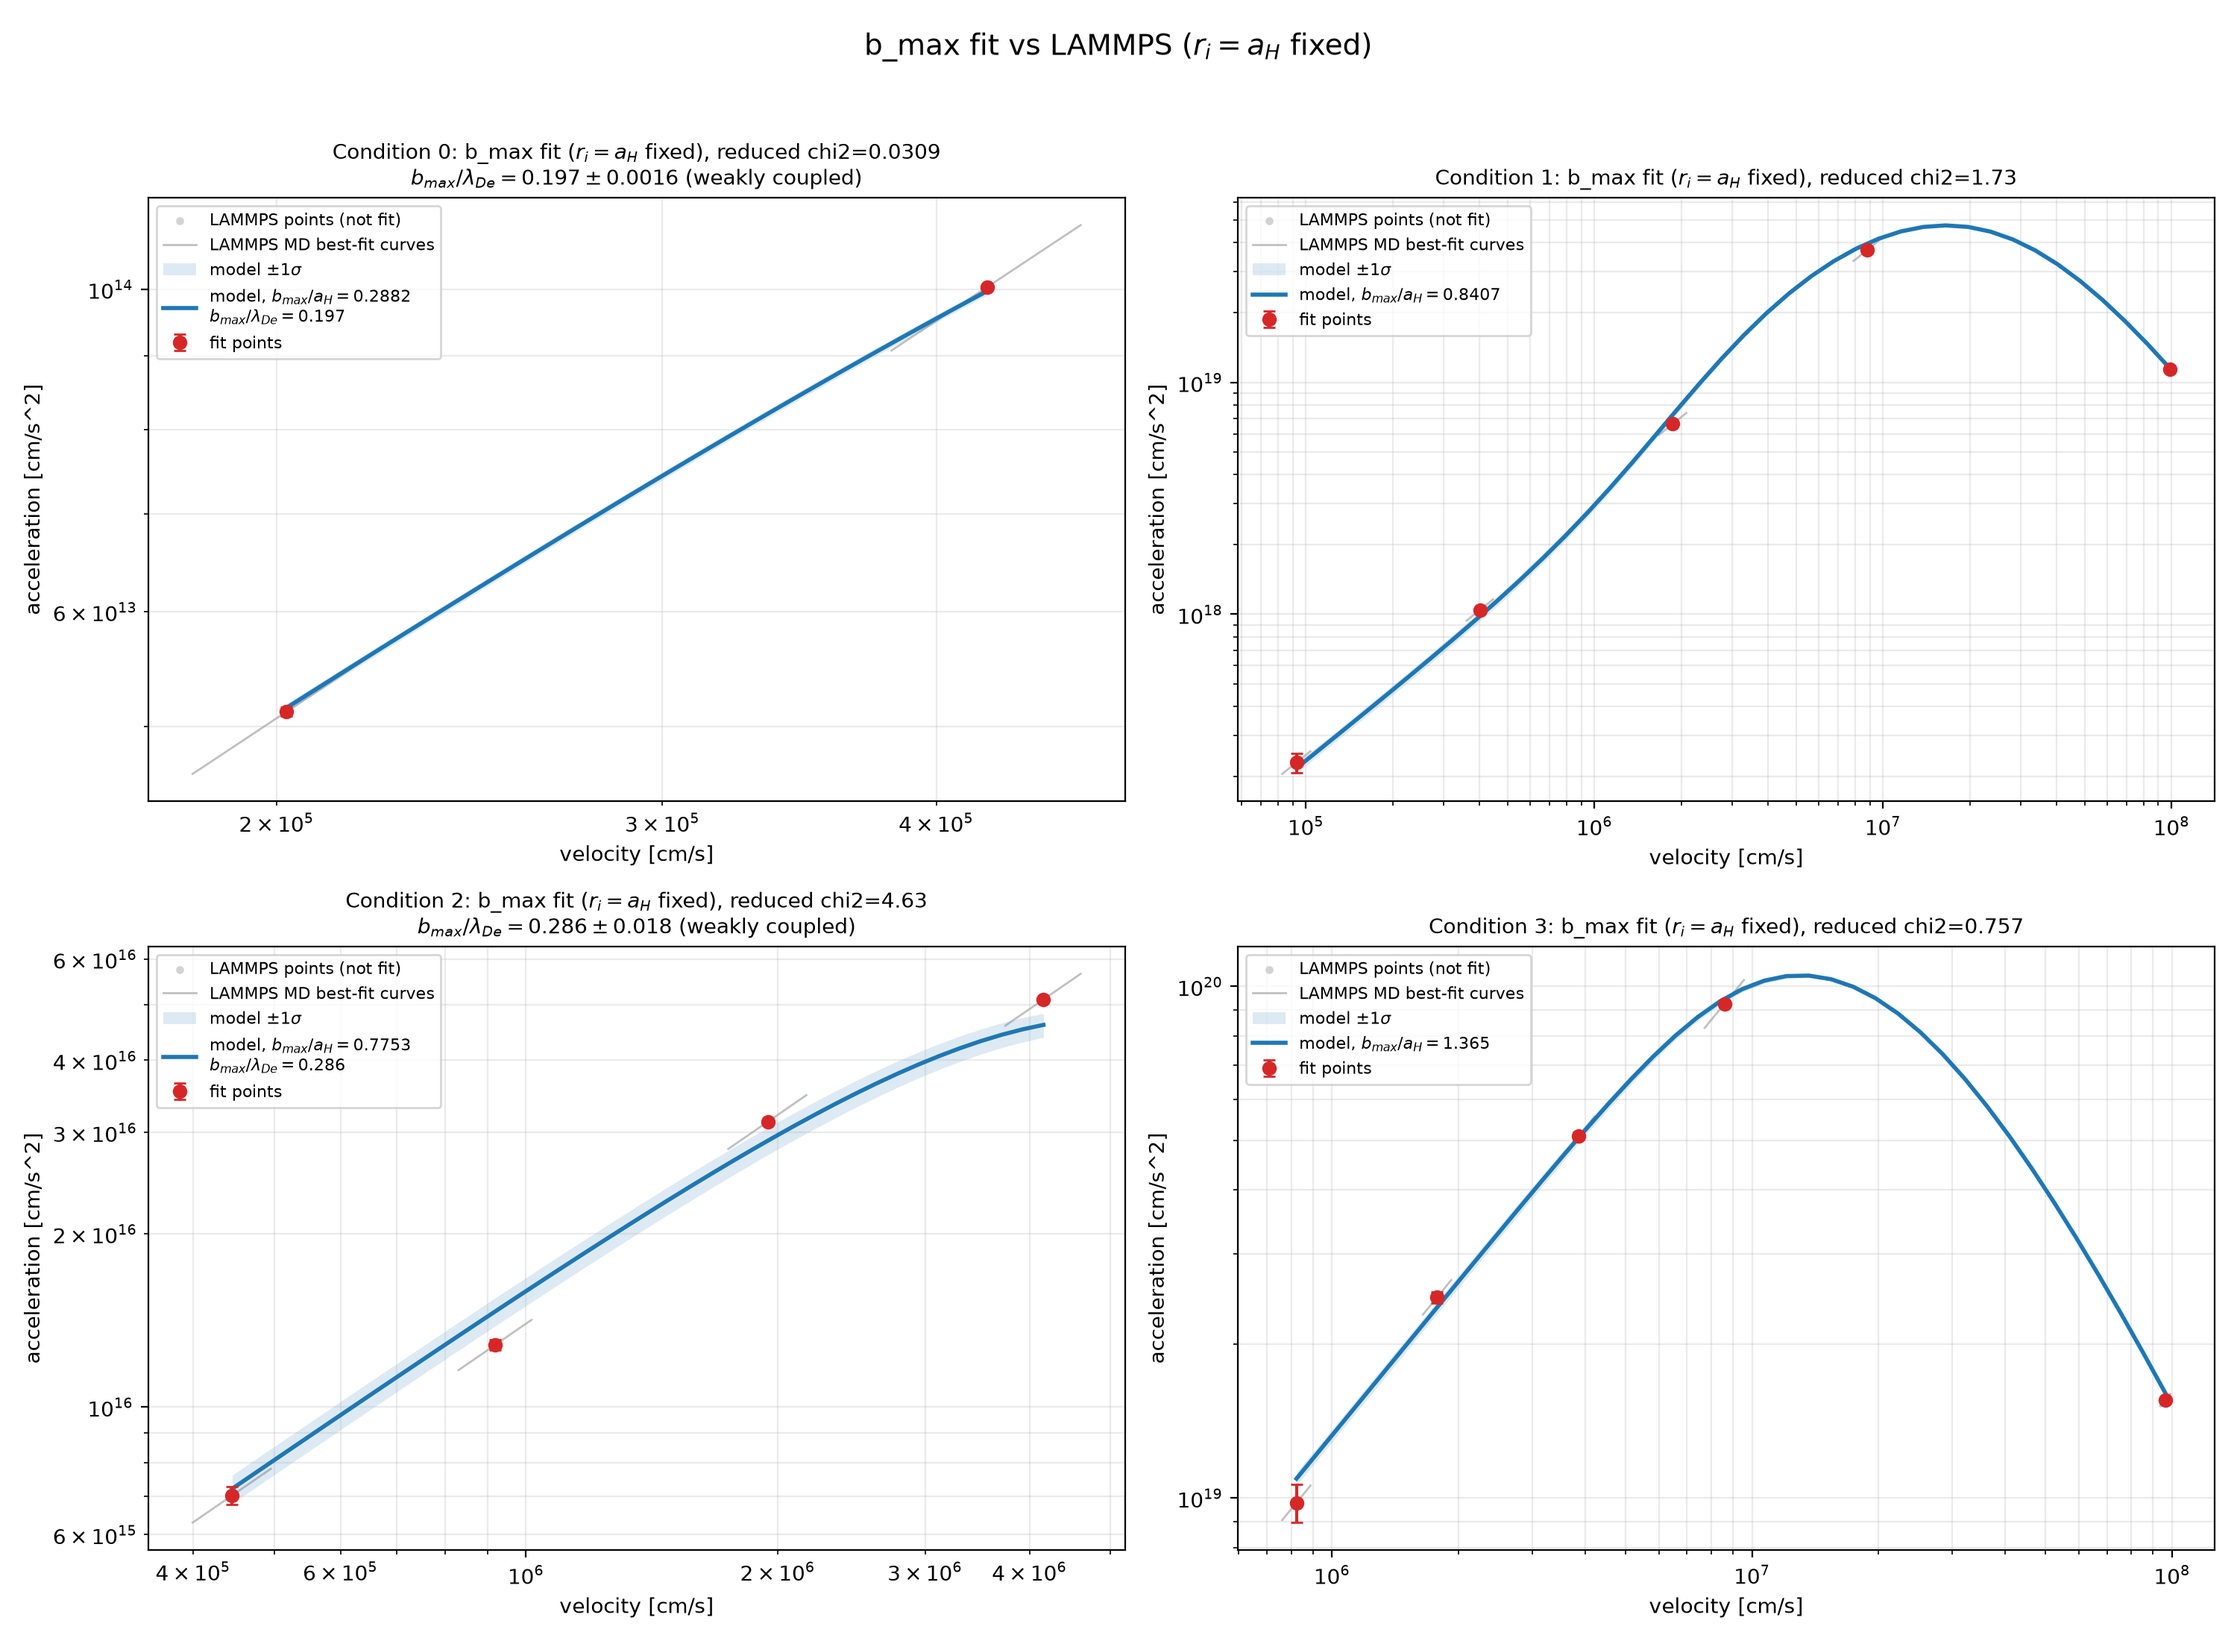
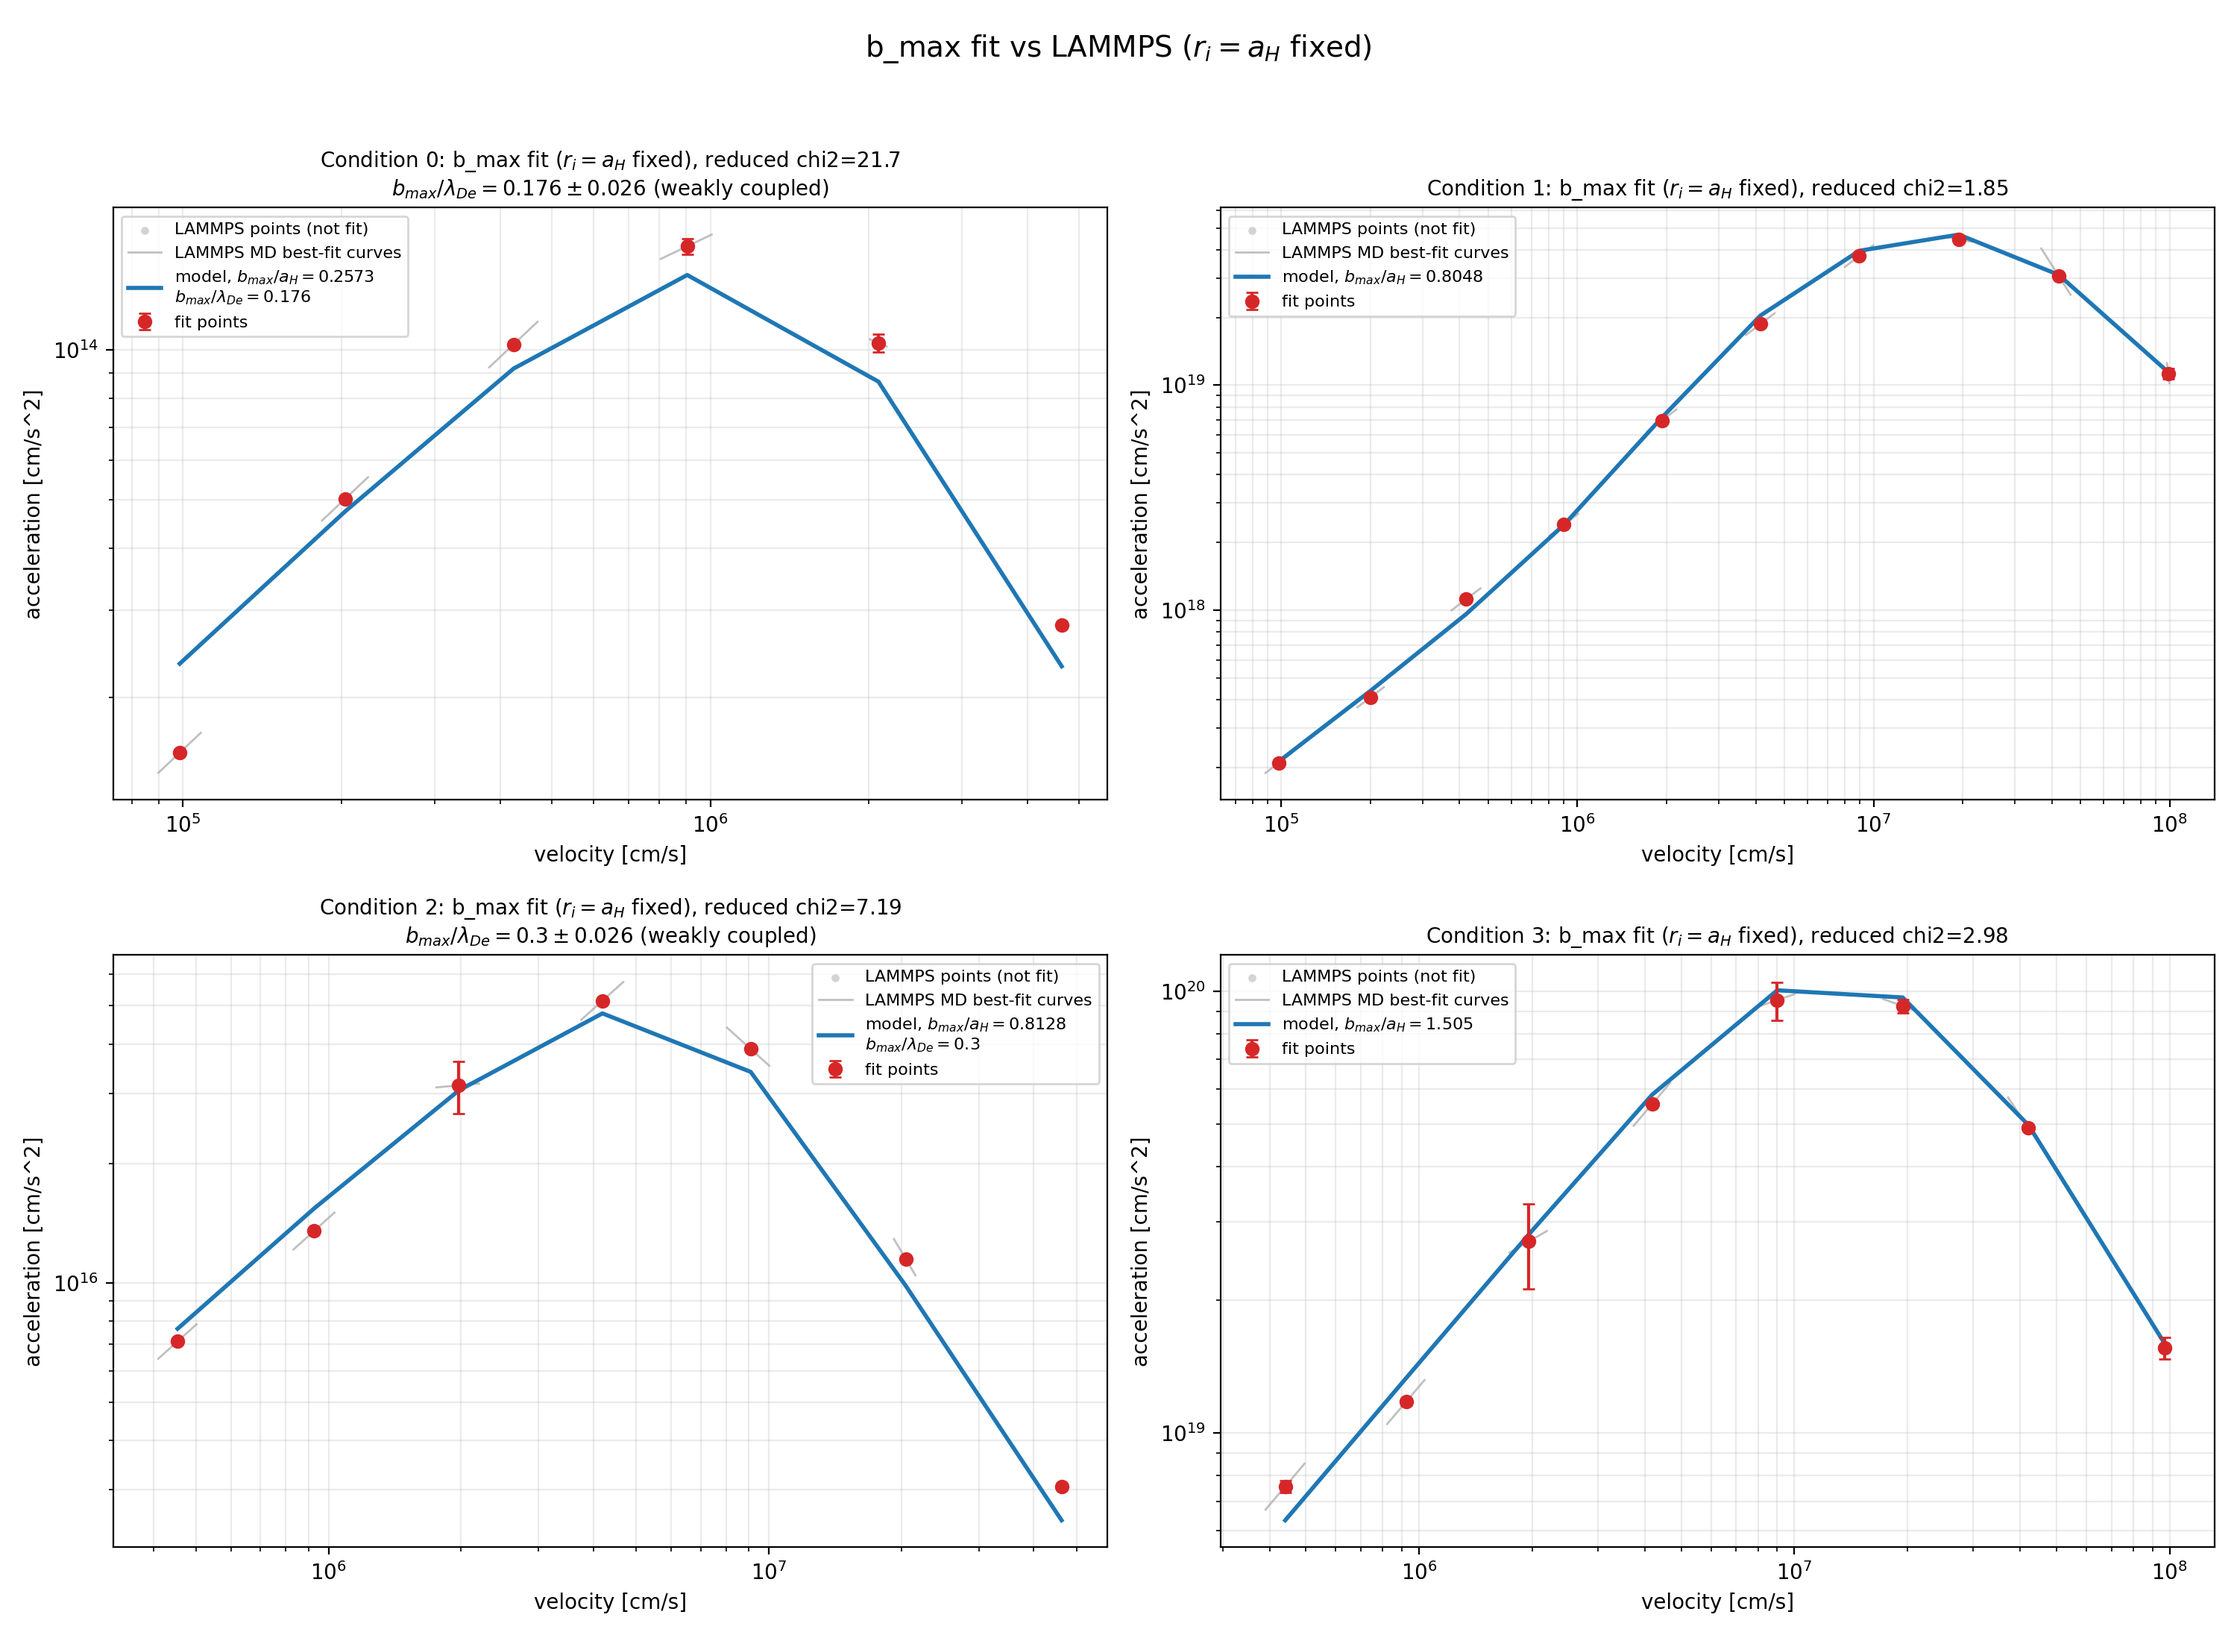
9/7d

diff --git a/theory/finite/lammps_fit/fit_bmax_to_lammps.py b/theory/finite/lammps_fit/fit_bmax_to_lammps.py
@@ -20,12 +20,9 @@ cannot reach the data (the model saturates as `r_i -> infinity`, since the
 Yukawa screening kills the contribution from very large impact parameters),
 not a bug -- report it, don't hide it.
 
-Point selection is likewise simplified from the old script's per-campaign
-regex grouping: points are ranked by velocity, split into
-`--points-per-condition` roughly-equal quantile groups, and the
-lowest-relative-sigma point is kept from each group. This approximates
-log-spacing in velocity without assuming anything about how the source LAMMPS
-runs were organized.
+Every valid campaign midpoint is fitted by default.  An optional
+`--points-per-condition` cap can reduce the data to velocity-quantile groups
+when a deliberately sparse fit is wanted; it is never applied implicitly.
 
 Depends only on `theory/finite/`, `theory/dragbase2.py`, and
 `theory/dataprocessing/output/fit_results.csv` -- nothing under
@@ -78,7 +75,6 @@ DEFAULT_BMAX_MIN = 1.0e-2
 # this upper bound.
 DEFAULT_BMAX_MAX = math.inf
 CONDITION_SUBPLOT_POSITION = {0: (0, 0), 1: (0, 1), 2: (1, 0), 3: (1, 1)}
-DEFAULT_POINTS_PER_CONDITION = 8
 # rhores = dphires = 360 keeps the 'vectorized' scheme within ~9e-4 relative
 # error of the quad_quad reference (worst case 8.7e-4) across the conditions
 # and speeds in theory/finite/convergence/resolution_convergence.csv -- the
@@ -96,7 +92,9 @@ DEFAULT_VRES = 101
 # extrapolated beyond, the (typically much sparser) points the fit itself
 # used.
 DEFAULT_SMOOTH_CURVE_POINTS = 40
-MINIMUM_POWER_RMSE_IMPROVEMENT_FRACTION = 0.10
+# Legacy-CSV fallback only.  Current CSVs carry ``best_model`` from
+# process_unforced.py, whose default policy uses the same 20% margin.
+MINIMUM_POWER_RMSE_IMPROVEMENT_FRACTION = 0.20
 
 
 @dataclass(frozen=True)
@@ -145,7 +143,21 @@ def exp_velocity(time_s: np.ndarray, tau: float, amplitude: float) -> np.ndarray
 
 
 def accepted_decay_model(row: dict[str, str]) -> str:
-    """Use power only for a material RMSE gain from a constrained fit."""
+    """Select this fit's decay model using the 20% power-improvement rule.
+
+    The stored ``best_model`` proves a recorded power fit already passed the
+    processor's convergence and parameter-constraint checks.  This consumer
+    deliberately imposes its stricter 20% RMSE requirement as well, so a
+    pre-existing CSV produced under the older 10% policy cannot silently
+    recreate the old b_max plot.  Exponential remains the default.
+    """
+    recorded_model = row.get("best_model", "").strip().lower()
+    if recorded_model == "exponential":
+        return recorded_model
+
+    # Backward compatibility for result CSVs made before ``best_model`` was
+    # written.  The numerical checks below are also used to apply the stricter
+    # policy to a power fit recorded by an older processor version.
     exp_rmse = positive_float(row.get("exponential_rmse"))
     power_rmse = positive_float(row.get("power_rmse"))
     alpha = finite_float(row.get("power_alpha"))
@@ -161,6 +173,16 @@ def accepted_decay_model(row: dict[str, str]) -> str:
         and alpha < 0.98
         and time_offset_sigma / time_offset < 1.0
     )
+    if recorded_model == "power":
+        # Trust the producer's recorded validity/convergence decision, but
+        # require the current, stricter RMSE margin.
+        return (
+            "power"
+            if np.isfinite(exp_rmse)
+            and np.isfinite(power_rmse)
+            and power_rmse < exp_rmse * (1.0 - MINIMUM_POWER_RMSE_IMPROVEMENT_FRACTION)
+            else "exponential"
+        )
     if (
         power_well_constrained
         and np.isfinite(exp_rmse)
@@ -386,14 +408,15 @@ def relative_sigma(point: DataPoint) -> float:
     return point.acceleration_sigma_cm_s2 / point.acceleration_cm_s2
 
 
-def select_fit_points(points: list[DataPoint], points_per_condition: int) -> list[DataPoint]:
-    """Rank by velocity, split into `points_per_condition` quantile groups,
-    keep the lowest-relative-sigma point from each group.
+def select_fit_points(points: list[DataPoint], points_per_condition: int | None) -> list[DataPoint]:
+    """Optionally reduce points to one precise sample per velocity quantile.
 
-    Approximates "log-spaced in velocity, most precise available" without
-    assuming anything about how the source LAMMPS campaigns were organized
-    (contrast the old script's regex-parsed per-campaign grouping).
+    ``None`` keeps every point, which is the default for a statistical fit.
+    A positive cap approximates log-spaced sampling without assuming campaign
+    naming conventions.
     """
+    if points_per_condition is None:
+        return list(points)
     selected: list[DataPoint] = []
     for condition in sorted({point.condition for point in points}):
         group = sorted((p for p in points if p.condition == condition), key=lambda p: p.velocity_cm_s)
@@ -861,7 +884,15 @@ def main() -> None:
     parser.add_argument("--min-velocity-cm-s", type=float, default=1.0e2)
     parser.add_argument("--max-velocity-cm-s", type=float, default=1.0e8)
     parser.add_argument("--max-relative-sigma", type=float, default=0.5)
-    parser.add_argument("--points-per-condition", type=int, default=DEFAULT_POINTS_PER_CONDITION)
+    parser.add_argument(
+        "--points-per-condition",
+        type=int,
+        default=None,
+        help=(
+            "Optional maximum number of velocity-quantile fit points per condition. "
+            "By default every valid filtered campaign point is fitted."
+        ),
+    )
     parser.add_argument("--bmax-min", type=float, default=DEFAULT_BMAX_MIN)
     parser.add_argument("--method", choices=("quad_quad", "vectorized"), default="vectorized")
     parser.add_argument("--resolution", type=int, default=DEFAULT_RESOLUTION, help="rhores = dphires used for every drag evaluation during the fit")
@@ -905,6 +936,8 @@ def main() -> None:
         parser.error(f"--lammps-results not found: {args.lammps_results}")
     if args.workers < 1:
         parser.error("--workers must be at least 1")
+    if args.points_per_condition is not None and args.points_per_condition < 1:
+        parser.error("--points-per-condition must be at least 1")
 
     conditions = set(args.conditions)
     all_points = load_all_points(args.lammps_results, conditions)
@@ -924,6 +957,19 @@ def main() -> None:
             )
         except FileNotFoundError as exc:
             parser.error(str(exc))
+        expected_sources = {(point.condition, point.source) for point in fit_points}
+        saved_sources = {
+            (condition, str(row["source"]))
+            for condition, (_, prediction_rows, _) in plot_results.items()
+            for row in prediction_rows
+        }
+        if saved_sources != expected_sources:
+            missing = len(expected_sources - saved_sources)
+            extra = len(saved_sources - expected_sources)
+            parser.error(
+                "saved b_max predictions do not match the current selected LAMMPS fit points "
+                f"({missing} missing, {extra} obsolete); rerun with --refit"
+            )
         make_combined_overlay_plot(plot_results, all_points, lammps_fit_curves)
         print(
             f"Redrew saved b_max fit with {len(lammps_fit_curves)} gray LAMMPS MD fit curves; "

diff --git a/theory/dataprocessing/process_unforced.py b/theory/dataprocessing/process_unforced.py
@@ -40,7 +40,9 @@ class FitConfig:
     max_relative_tau_sigma: float = 1.0
     max_reduced_chi2: float = 100.0
     min_r_squared: float = 0.5
-    minimum_power_rmse_improvement_fraction: float = 0.10
+    # Exponential is the simpler default.  The extra flexibility of the
+    # power-law fit must reduce RMSE by more than 20% before it is selected.
+    minimum_power_rmse_improvement_fraction: float = 0.20
 
 
 @dataclass
